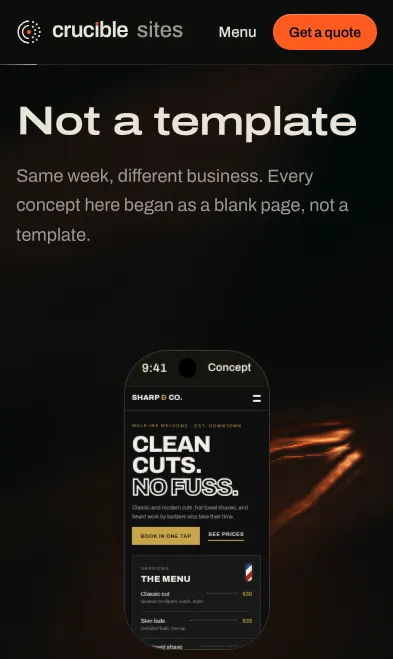
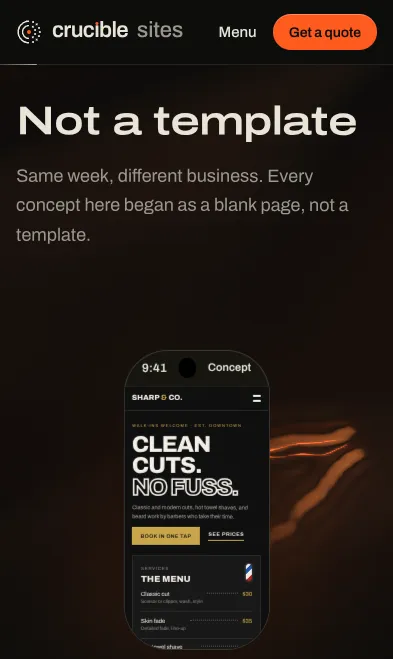
Liquid on the other pages: lava's model, a true blackbody under a thin skin (975 K at rest, hotter in the swell's troughs and along a wake)
Claude-Session: https://claude.ai/code/session_01PrrUSitYmSR7aDjHHAhibr

diff --git a/lib/liquid/shader.ts b/lib/liquid/shader.ts
@@ -47,9 +47,19 @@ export const LOOK = {
   sheen: [0.085, 0.032, 0.016] as number[], // the swell's sheen at its brightest (added to the ground): molten red
   sheenRelief: 9, // the swell: slope -> normal tilt for its sheen (its slopes are tiny)
   sheenExp: 9, // the sheen's lobe (broad: a soft light, not a glint)
-  // the molten body under the skin: where the visitor's waves stretch the skin thin it glows through, hotter where it
-  // is stretched more (a blackbody ramp: deep red, Ember, yellow-white); the swell never opens it, so text sits on dark
-  heat: [0.7, 0.006, 0.05] as number[], // strength, stretch (|laplacian| 1/px + slope / 30) over which it heats 0 -> 1
+  // The molten body under a thin cooler skin (lava's model, lib/world/glsl/lava.glsl, seen from straight above): it
+  // glows with a true blackbody (Planck at 600/550/460 nm, as look_planck), dimmed by Fresnel (Kirchhoff) and by the
+  // skin's path. At rest it is a deep, dark red (the page must stay dark under its text); the swell's troughs, where
+  // the skin is pulled thin, glow a little hotter, so the long waves read; the visitor's waves stretch it and glow
+  // hotter still, so a wake is a brief line of Ember turning amber. Hotter = brighter AND yellower, never pink.
+  T: 975, // K at rest
+  troughK: 36, // K added at the swell's deepest trough (heights / troughH, clamped to 1)
+  troughH: 4, // px
+  wakeK: [140, 1.6, 0.03] as number[], // K: + a * (1 - exp(-b * stretch / c)), stretch = |laplacian| + slope / 30
+  crestK: [60, 0.01] as number[], // K: + a * clamp(-laplacian / b, -0.6, 1)
+  skin: 30, // K: the skin's cooling along its path (1 - exp(-0.3 / cos))
+  emit: 8, // exposure of the glow (linear; the rest glow is ~0.002 luminance)
+  f0: 0.053, // Fresnel at normal incidence
 };
 
 const f = (n: number) => (Number.isInteger(n) ? n.toFixed(1) : String(n));
@@ -78,11 +88,15 @@ ${swellGLSL(true)}
 
 const vec3 GROUND = vec3(0.0510, 0.0510, 0.0431);
 const vec3 EMBER = vec3(1.0, 0.357, 0.122);
-// the glow of the metal under the skin, 0 (just open: a deep red, nearly black) .. 1 (white-hot yellow), linear-ish
-vec3 molten(float x) {
-  vec3 c = mix(vec3(0.30, 0.025, 0.0), EMBER, smoothstep(0.0, 0.55, x));
-  c = mix(c, vec3(1.0, 0.72, 0.38), smoothstep(0.55, 1.0, x));
-  return c * x * x;
+// blackbody radiance at T kelvin, sampled at 600/550/460 nm, 1 = green at 1500 K (the same as look_planck)
+vec3 planck(float T) {
+  const vec3 lam = vec3(600e-9, 550e-9, 460e-9);
+  const float c2 = 1.4388e-2;
+  vec3 l5 = lam * lam * lam * lam * lam;
+  vec3 b = 1.0 / (l5 * (exp(c2 / (lam * max(T, 300.0))) - 1.0));
+  float g5 = 550e-9 * 550e-9 * 550e-9 * 550e-9 * 550e-9;
+  vec3 rgb = b * (g5 * (exp(c2 / (550e-9 * 1500.0)) - 1.0));
+  return mix(rgb, vec3(dot(rgb, vec3(0.3333))), 0.12);
 }
 const vec3 KEY = ${v3(key)};
 const vec3 HK = ${v3(half)};
@@ -159,9 +173,17 @@ void main() {
   // crests (convex, from any direction) catch a soft warm light, so a wake reads whichever way it runs
   float cr = ${f(LOOK.crest[0])} * smoothstep(${f(LOOK.crest[1])}, ${f(LOOK.crest[2])}, -lap);
   col += EMBER * (${f(LOOK.softK)} * soft + ${f(LOOK.coreK)} * core + ca + cr);
-  // the molten body showing through where the visitor's waves stretch the skin
+  // the molten body glowing through its skin (linear light, added to the display colour's linear value)
+  vec3 nn = normalize(vec3(-gr * ${f(LOOK.relief)} - sw.yz * ${f(LOOK.reliefSwell)}, 1.0));
   float st = abs(lap) + length(gr) / 30.0;
-  col += ${f(LOOK.heat[0])} * molten(smoothstep(${f(LOOK.heat[1])}, ${f(LOOK.heat[2])}, st));
+  float T = ${f(LOOK.T)}
+    + ${f(LOOK.troughK)} * clamp(-sw.x / ${f(LOOK.troughH)}, -1.0, 1.0)
+    + ${f(LOOK.wakeK[0])} * (1.0 - exp(-${f(LOOK.wakeK[1])} * st / ${f(LOOK.wakeK[2])}))
+    + ${f(LOOK.crestK[0])} * clamp(-lap / ${f(LOOK.crestK[1])}, -0.6, 1.0)
+    - ${f(LOOK.skin)} * (1.0 - exp(-0.3 / max(nn.z, 0.2)));
+  float fr = ${f(LOOK.f0)} + (1.0 - ${f(LOOK.f0)}) * pow(1.0 - nn.z, 5.0);
+  vec3 em = planck(T) * ${f(LOOK.emit)} * (1.0 - fr);
+  col = pow(pow(max(col, 0.0), vec3(2.2)) + em, vec3(1.0 / 2.2));
 
   col += (hash(gl_FragCoord.xy + uSeed) - 0.5) / 255.0; // dither: no banding in the dark
   o = vec4(col, 1.0);

diff --git a/lab/pages/NOTES.md b/lab/pages/NOTES.md
@@ -94,6 +94,12 @@ MobileMenu}.tsx` and every component outside `components/world`, `app/{sites,wor
   lifts the monolith 2.5%. The venture share images (`public/og/{verge,trellis}.jpg`) are rebuilt from them
   (`scripts/venture-og.mjs`). IngotScene and lib/gl3d ingot code are now unused by any page: remove in the cleanup.
 
+- (14:40) The pages' liquid now uses lava's physical model (lava's notes 13:58): the body glows with a true Planck
+  (600/550/460 nm, as look_planck) dimmed by Fresnel (F0 0.053) and a 30 K skin; 975 K at rest, +36 K in the swell's
+  troughs (so the long waves read), +140 K (1 - exp) with the wake's stretch and +60 K on its crests (Ember to amber
+  lines). Rest background p99 luminance 0.0084, max 0.0100 (bone-dim text ≥ 5.9:1). Lower than lava's suggested
+  1000-1040 K: at 1000 K the page went muddy brown and the nav's ground read as a separate band.
+
 ## Decisions
 - (08:40) Nav breakpoint 389 px: 390 px and up (iPhone 12-16) keep the current nav exactly.
 - (07:40) Liquid is per-route: off on `/` (the world paints the home), on everywhere else. A restart gets a fresh
